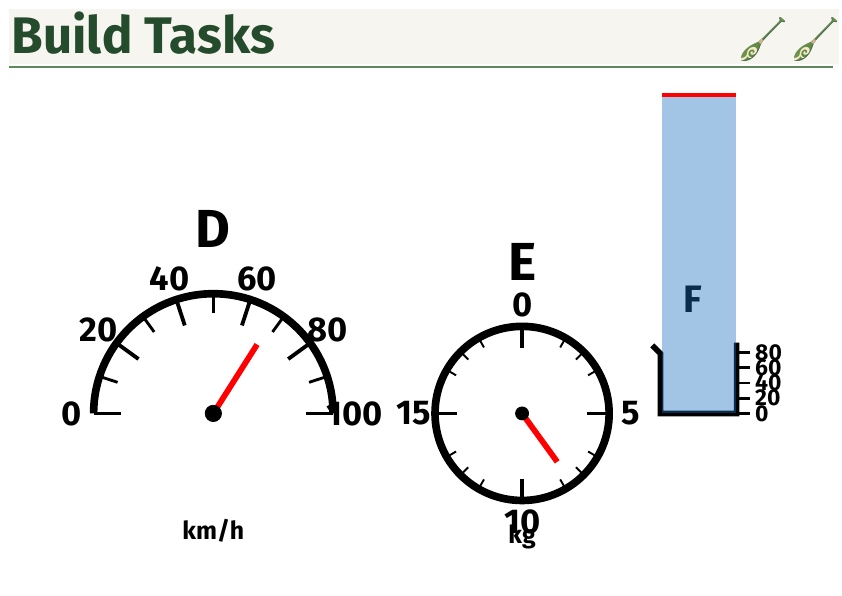
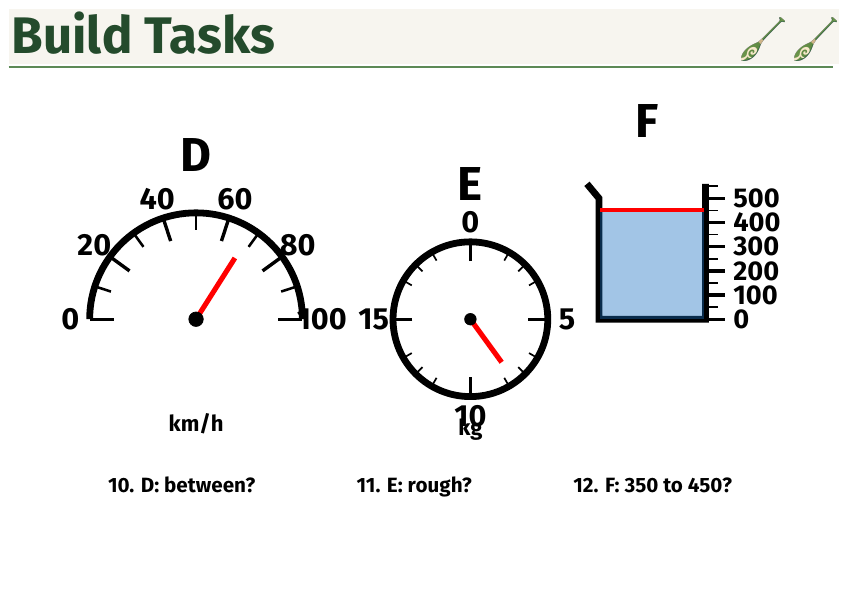
LO11: taller beaker (0-500 mL scale, 2.8 unit height, proper pour spout)

diff --git a/OBJECTIVES/lo-yr9-reading-scales/excellence-questions.tex b/OBJECTIVES/lo-yr9-reading-scales/excellence-questions.tex
@@ -97,17 +97,20 @@
 % -- MEASURING JUG (0-500 mL, compact 2 wide x 3 tall) --
 \newcommand{\MeasuringJug}[2]{%
 \begin{tikzpicture}[baseline=0]
-\node[above,font=\bfseries\fontsize{20}{20}\selectfont] at (1.0,1.6) {#1};
-% Beaker body
-\draw[line width=3pt]
-  (0.25,1.25) -- (0.4,1.1) -- (0.4,0) -- (1.8,0) -- (1.8,1.3);
-\fill[cyan!50!blue,opacity=0.4] (0.42,0) rectangle (1.78,#2*0.013);
-% Scale on right - 0, 20, 40, 60, 80
-\foreach \y/\l in {0/0,0.28/20,0.56/40,0.84/60,1.12/80}{
-  \draw[line width=1.5pt] (1.8,\y)--(2.05,\y);
-  \node[anchor=west,font=\bfseries\fontsize{12}{12}\selectfont,inner sep=1pt] at (2.1,\y) {\l};
+\node[above,font=\bfseries\fontsize{28}{28}\selectfont] at (1.6,3.5) {#1};
+% Beaker body - taller, wider
+\draw[line width=4pt]
+  (0.35,2.8) -- (0.6,2.5) -- (0.6,0) -- (2.8,0) -- (2.8,2.8);
+\fill[cyan!50!blue,opacity=0.4] (0.62,0) rectangle (2.78,#2*0.005);
+% Scale on right - 0, 100, 200, 300, 400, 500
+\foreach \y/\l in {0/0,0.5/100,1.0/200,1.5/300,2.0/400,2.5/500}{
+  \draw[line width=2pt] (2.8,\y)--(3.2,\y);
+  \node[anchor=west,font=\bfseries\fontsize{16}{16}\selectfont,inner sep=2pt] at (3.3,\y) {\l};
 }
-\draw[red,line width=2pt] (0.42,#2*0.013)--(1.78,#2*0.013);
+\foreach \y in {0.25,0.75,1.25,1.75,2.25,2.75}{
+  \draw[line width=1pt] (2.8,\y)--(3.05,\y);
+}
+\draw[red,line width=2.5pt] (0.62,#2*0.005)--(2.78,#2*0.005);
 \end{tikzpicture}}
 
 % -- GAS DIAL (0-9, 1.4 wide x 1.4 tall) --

diff --git a/OBJECTIVES/lo-yr9-reading-scales/foundation-questions.tex b/OBJECTIVES/lo-yr9-reading-scales/foundation-questions.tex
@@ -97,17 +97,20 @@
 % -- MEASURING JUG (0-500 mL, compact 2 wide x 3 tall) --
 \newcommand{\MeasuringJug}[2]{%
 \begin{tikzpicture}[baseline=0]
-\node[above,font=\bfseries\fontsize{20}{20}\selectfont] at (1.0,1.6) {#1};
-% Beaker body
-\draw[line width=3pt]
-  (0.25,1.25) -- (0.4,1.1) -- (0.4,0) -- (1.8,0) -- (1.8,1.3);
-\fill[cyan!50!blue,opacity=0.4] (0.42,0) rectangle (1.78,#2*0.013);
-% Scale on right - 0, 20, 40, 60, 80
-\foreach \y/\l in {0/0,0.28/20,0.56/40,0.84/60,1.12/80}{
-  \draw[line width=1.5pt] (1.8,\y)--(2.05,\y);
-  \node[anchor=west,font=\bfseries\fontsize{12}{12}\selectfont,inner sep=1pt] at (2.1,\y) {\l};
+\node[above,font=\bfseries\fontsize{28}{28}\selectfont] at (1.6,3.5) {#1};
+% Beaker body - taller, wider
+\draw[line width=4pt]
+  (0.35,2.8) -- (0.6,2.5) -- (0.6,0) -- (2.8,0) -- (2.8,2.8);
+\fill[cyan!50!blue,opacity=0.4] (0.62,0) rectangle (2.78,#2*0.005);
+% Scale on right - 0, 100, 200, 300, 400, 500
+\foreach \y/\l in {0/0,0.5/100,1.0/200,1.5/300,2.0/400,2.5/500}{
+  \draw[line width=2pt] (2.8,\y)--(3.2,\y);
+  \node[anchor=west,font=\bfseries\fontsize{16}{16}\selectfont,inner sep=2pt] at (3.3,\y) {\l};
 }
-\draw[red,line width=2pt] (0.42,#2*0.013)--(1.78,#2*0.013);
+\foreach \y in {0.25,0.75,1.25,1.75,2.25,2.75}{
+  \draw[line width=1pt] (2.8,\y)--(3.05,\y);
+}
+\draw[red,line width=2.5pt] (0.62,#2*0.005)--(2.78,#2*0.005);
 \end{tikzpicture}}
 
 % -- GAS DIAL (0-9, 1.4 wide x 1.4 tall) --

diff --git a/OBJECTIVES/lo-yr9-reading-scales/proficient-questions.tex b/OBJECTIVES/lo-yr9-reading-scales/proficient-questions.tex
@@ -97,17 +97,20 @@
 % -- MEASURING JUG (0-500 mL, compact 2 wide x 3 tall) --
 \newcommand{\MeasuringJug}[2]{%
 \begin{tikzpicture}[baseline=0]
-\node[above,font=\bfseries\fontsize{20}{20}\selectfont] at (1.0,1.6) {#1};
-% Beaker body
-\draw[line width=3pt]
-  (0.25,1.25) -- (0.4,1.1) -- (0.4,0) -- (1.8,0) -- (1.8,1.3);
-\fill[cyan!50!blue,opacity=0.4] (0.42,0) rectangle (1.78,#2*0.013);
-% Scale on right - 0, 20, 40, 60, 80
-\foreach \y/\l in {0/0,0.28/20,0.56/40,0.84/60,1.12/80}{
-  \draw[line width=1.5pt] (1.8,\y)--(2.05,\y);
-  \node[anchor=west,font=\bfseries\fontsize{12}{12}\selectfont,inner sep=1pt] at (2.1,\y) {\l};
+\node[above,font=\bfseries\fontsize{28}{28}\selectfont] at (1.6,3.5) {#1};
+% Beaker body - taller, wider
+\draw[line width=4pt]
+  (0.35,2.8) -- (0.6,2.5) -- (0.6,0) -- (2.8,0) -- (2.8,2.8);
+\fill[cyan!50!blue,opacity=0.4] (0.62,0) rectangle (2.78,#2*0.005);
+% Scale on right - 0, 100, 200, 300, 400, 500
+\foreach \y/\l in {0/0,0.5/100,1.0/200,1.5/300,2.0/400,2.5/500}{
+  \draw[line width=2pt] (2.8,\y)--(3.2,\y);
+  \node[anchor=west,font=\bfseries\fontsize{16}{16}\selectfont,inner sep=2pt] at (3.3,\y) {\l};
 }
-\draw[red,line width=2pt] (0.42,#2*0.013)--(1.78,#2*0.013);
+\foreach \y in {0.25,0.75,1.25,1.75,2.25,2.75}{
+  \draw[line width=1pt] (2.8,\y)--(3.05,\y);
+}
+\draw[red,line width=2.5pt] (0.62,#2*0.005)--(2.78,#2*0.005);
 \end{tikzpicture}}
 
 % -- GAS DIAL (0-9, 1.4 wide x 1.4 tall) --
